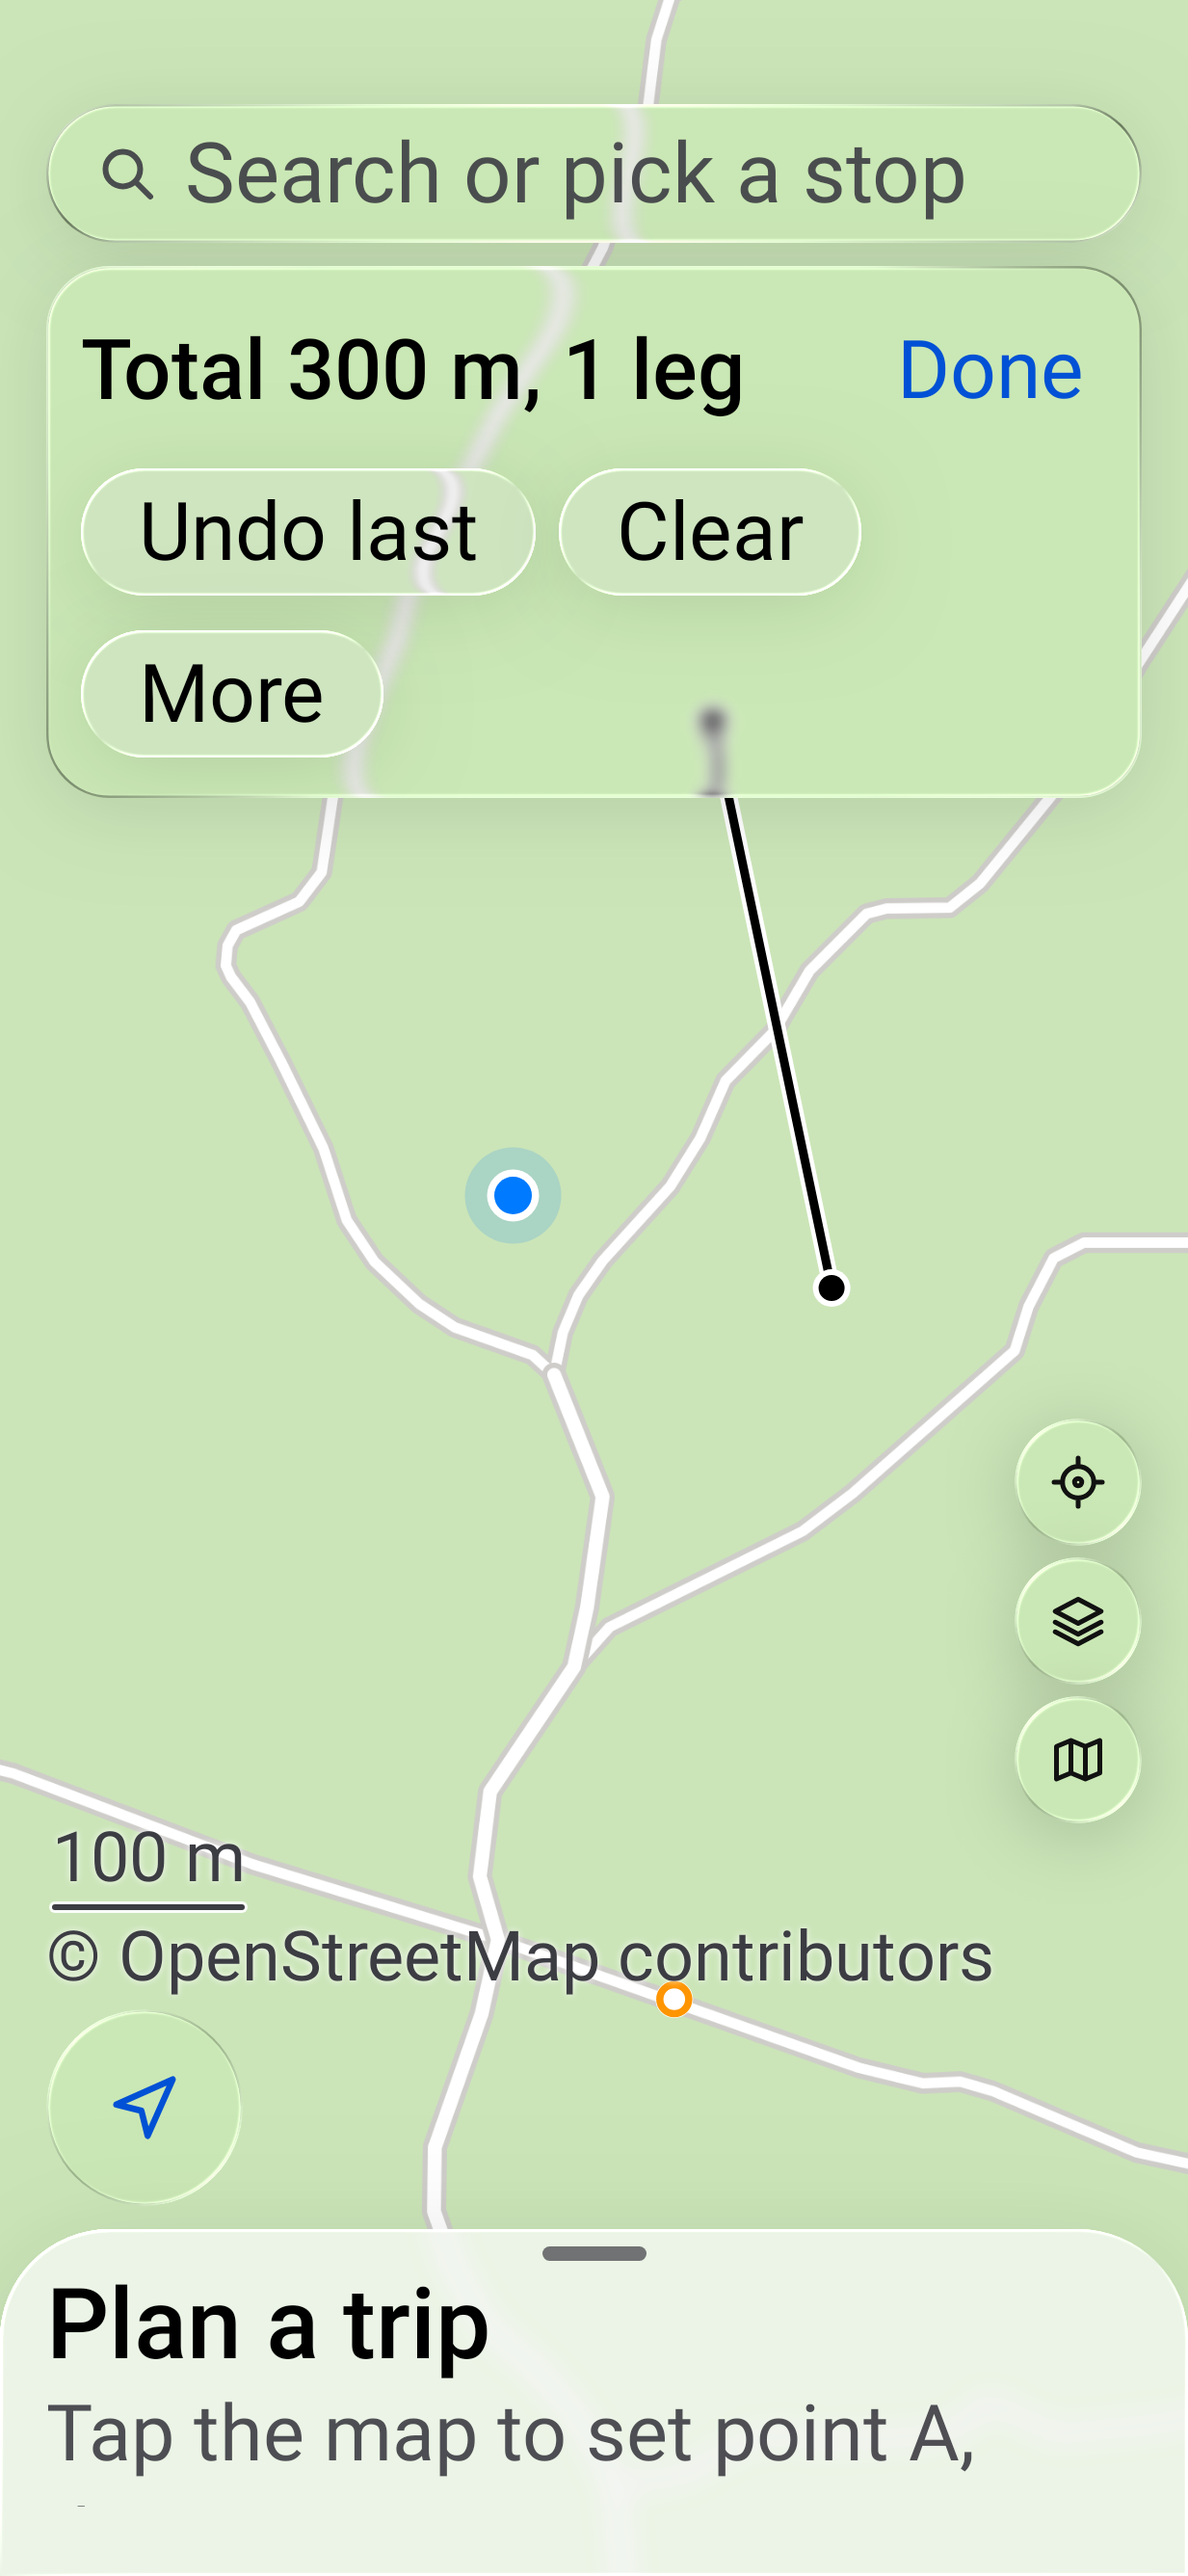
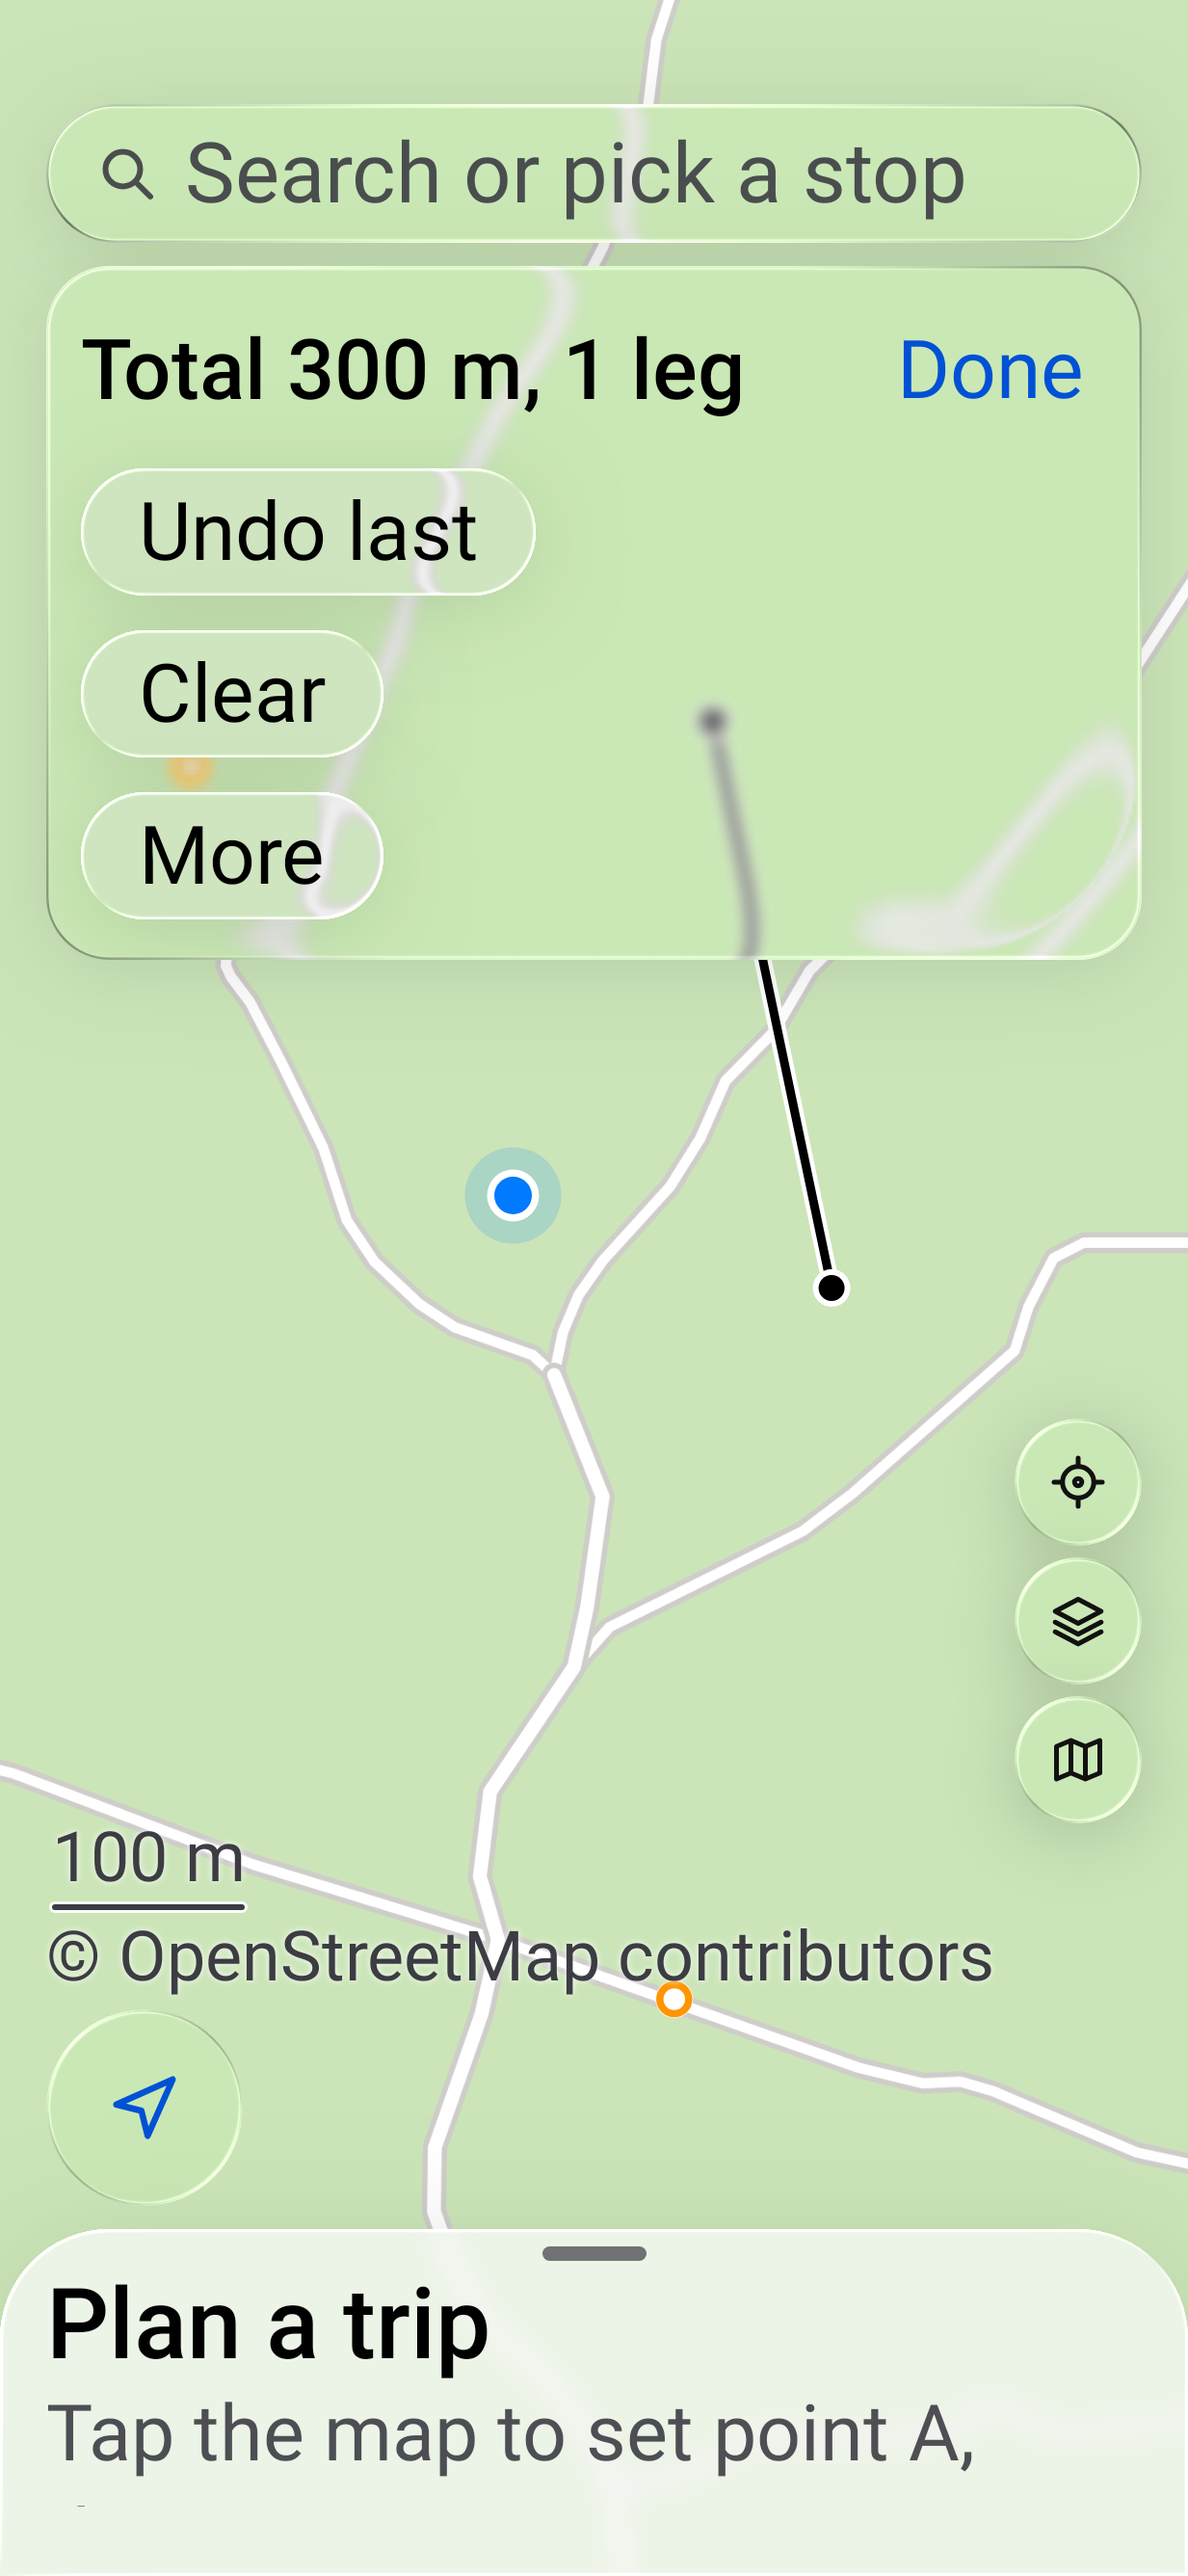
Stops: large-text stacks without FlowRow; steadier landscape shot
The design conventions forbid FlowRow (wrapping chips were an owner
complaint): from font scale 1.5 the map footer stacks the attribution
under the scale bar and the measure card's buttons go one under the
other, both by explicit layouts. The landscape golden waits longer for
its tiles in a busy run.

Claude-Session: https://claude.ai/code/session_011osUp9MCesspyDRaLRPJDZ

diff --git a/android/stops/src/main/kotlin/dev/rosty/stops/home/HomeScreen.kt b/android/stops/src/main/kotlin/dev/rosty/stops/home/HomeScreen.kt
@@ -5,7 +5,6 @@ import androidx.compose.foundation.interaction.MutableInteractionSource
 import androidx.compose.foundation.layout.Arrangement
 import androidx.compose.foundation.layout.Box
 import androidx.compose.foundation.layout.Column
-import androidx.compose.foundation.layout.FlowRow
 import androidx.compose.foundation.layout.PaddingValues
 import androidx.compose.foundation.layout.Row
 import androidx.compose.foundation.layout.RowScope
@@ -139,7 +138,8 @@ fun StopsHome(
     topCard: (@Composable () -> Unit)? = null,
     /** The locate button is tinted while the view follows the position (S17). */
     following: Boolean = false,
-    mapFooter: @Composable RowScope.() -> Unit = {},
+    /** The scale bar and the attribution; [stacked] (large text) puts them one under the other. */
+    mapFooter: @Composable (stacked: Boolean) -> Unit = {},
     motionFrozen: () -> Boolean = { false },
     sheetContent: @Composable () -> Unit = { MapSheetContent(state, actions.onOpenSaved, actions.onOpenHistory) },
 ) {
@@ -147,6 +147,8 @@ fun StopsHome(
     val entry =
         rememberMapSheet(detentFromTallest) { _ -> sheetContent() }
     val density = LocalDensity.current
+    // Large text: the attribution goes under the scale bar instead of off the edge.
+    val stackedFooter = density.fontScale >= STACKED_FOOTER_SCALE
     val bottomInsetPx = WindowInsets.safeDrawing.getBottom(density).toFloat()
     val gapPx = with(density) { Spacing.s.toPx() }
     val fadePx = with(density) { StopsSizes.rideFade.toPx() }
@@ -312,17 +314,13 @@ fun StopsHome(
                     ) {
                         // A wide window keeps the footer above the buttons, clear of the centred sheet.
                         if (wide) {
-                            // A flow row: at large text the attribution goes under the scale bar instead of off the edge.
-                            FlowRow(
+                            Box(
                                 Modifier
                                     .fillMaxWidth()
                                     .windowInsetsPadding(WindowInsets.safeDrawing.only(WindowInsetsSides.Horizontal))
                                     .padding(horizontal = Spacing.gutter, vertical = Spacing.xs)
                                     .testTag(HomeTags.MapFooter),
-                                horizontalArrangement = Arrangement.SpaceBetween,
-                                itemVerticalAlignment = Alignment.Bottom,
-                                content = mapFooter,
-                            )
+                            ) { mapFooter(stackedFooter) }
                         }
                         MapButtons(
                             actions,
@@ -333,17 +331,13 @@ fun StopsHome(
                                 .onSizeChanged { buttonsWidthPx = it.width.toFloat() + gapPx },
                         )
                         if (!wide) {
-                            // A flow row: at large text the attribution goes under the scale bar instead of off the edge.
-                            FlowRow(
+                            Box(
                                 Modifier
                                     .fillMaxWidth()
                                     .windowInsetsPadding(WindowInsets.safeDrawing.only(WindowInsetsSides.Horizontal))
                                     .padding(horizontal = Spacing.gutter, vertical = Spacing.xs)
                                     .testTag(HomeTags.MapFooter),
-                                horizontalArrangement = Arrangement.SpaceBetween,
-                                itemVerticalAlignment = Alignment.Bottom,
-                                content = mapFooter,
-                            )
+                            ) { mapFooter(stackedFooter) }
                         }
                         RostyTabBar(
                             tabs = tabs,
@@ -516,3 +510,6 @@ private fun MapButtons(
         )
     }
 }
+
+/** From this font scale the map footer stacks. */
+private const val STACKED_FOOTER_SCALE = 1.5f

diff --git a/android/stops/src/main/kotlin/dev/rosty/stops/home/HomeEntry.kt b/android/stops/src/main/kotlin/dev/rosty/stops/home/HomeEntry.kt
@@ -5,6 +5,10 @@ import android.content.ContextWrapper
 import android.content.Intent
 import android.content.res.Resources
 import androidx.activity.ComponentActivity
+import androidx.compose.foundation.layout.Arrangement
+import androidx.compose.foundation.layout.Column
+import androidx.compose.foundation.layout.Row
+import androidx.compose.foundation.layout.fillMaxWidth
 import androidx.compose.runtime.Composable
 import androidx.compose.runtime.LaunchedEffect
 import androidx.compose.runtime.collectAsState
@@ -14,6 +18,7 @@ import androidx.compose.runtime.remember
 import androidx.compose.runtime.rememberCoroutineScope
 import androidx.compose.runtime.setValue
 import androidx.compose.runtime.snapshotFlow
+import androidx.compose.ui.Alignment
 import androidx.compose.ui.Modifier
 import androidx.compose.ui.platform.LocalContext
 import androidx.compose.ui.platform.LocalDensity
@@ -622,9 +627,22 @@ fun HomeEntry(
         hint = if (runningTrip != null) null else pickState.pairLabel ?: pickState.hintText,
         topCard = if (measuring.on) ({ MeasureCard(mapTools) }) else null,
         following = mapTools.follow == MapFollowMode.Following,
-        mapFooter = {
-            MapScaleBar(map.camera, Modifier.testTag(HomeTags.ScaleBar))
-            MapAttribution()
+        mapFooter = { stacked ->
+            if (stacked) {
+                Column {
+                    MapScaleBar(map.camera, Modifier.testTag(HomeTags.ScaleBar))
+                    MapAttribution()
+                }
+            } else {
+                Row(
+                    Modifier.fillMaxWidth(),
+                    horizontalArrangement = Arrangement.SpaceBetween,
+                    verticalAlignment = Alignment.Bottom,
+                ) {
+                    MapScaleBar(map.camera, Modifier.testTag(HomeTags.ScaleBar))
+                    MapAttribution()
+                }
+            }
         },
         motionFrozen = { map.motion.frozen },
         // S37: one tap starts the trip to the saved stop nearest the position, while nothing is picked.

diff --git a/android/stops/src/main/kotlin/dev/rosty/stops/tools/ToolViews.kt b/android/stops/src/main/kotlin/dev/rosty/stops/tools/ToolViews.kt
@@ -3,7 +3,6 @@ package dev.rosty.stops.tools
 import androidx.compose.animation.core.Animatable
 import androidx.compose.foundation.layout.Arrangement
 import androidx.compose.foundation.layout.Column
-import androidx.compose.foundation.layout.FlowRow
 import androidx.compose.foundation.layout.Row
 import androidx.compose.foundation.layout.fillMaxWidth
 import androidx.compose.foundation.layout.padding
@@ -121,7 +120,7 @@ fun MeasureCard(
                 Modifier.testTag(ToolTags.MeasureDone),
             )
         }
-        // Equal thirds; with large text each keeps its own width and the row wraps instead of cutting labels.
+        // Equal thirds; with large text each keeps its own width, one under the other, instead of cutting labels.
         val large = LocalDensity.current.fontScale >= LARGE_FONT_SCALE
         val more = {
             result?.let {
@@ -156,10 +155,7 @@ fun MeasureCard(
             )
         }
         if (large) {
-            FlowRow(
-                horizontalArrangement = Arrangement.spacedBy(Spacing.s),
-                verticalArrangement = Arrangement.spacedBy(Spacing.s),
-            ) { buttons(Modifier) }
+            Column(verticalArrangement = Arrangement.spacedBy(Spacing.s)) { buttons(Modifier) }
         } else {
             Row(horizontalArrangement = Arrangement.spacedBy(Spacing.s)) { buttons(Modifier.weight(1f)) }
         }
@@ -250,7 +246,7 @@ fun OverlayController.presentMyLocationSheet(
         }
     }.also { present(it) }
 
-/** From this font scale the measure card's buttons keep their own widths and wrap. */
+/** From this font scale the measure card's buttons keep their own widths, one under the other. */
 private const val LARGE_FONT_SCALE = 1.5f
 
 /** The card grows from this scale as it appears. */

diff --git a/android/stops/src/test/kotlin/dev/rosty/stops/E71ShotTest.kt b/android/stops/src/test/kotlin/dev/rosty/stops/E71ShotTest.kt
@@ -95,8 +95,9 @@ class E71ShotTest : ShotTest() {
                     waitForIdle()
                     simulateBars(activity!!)
                 }
-                // The core answers on its own threads, through the main looper.
-                repeat(30) {
+                // The core answers on its own threads, through the main looper (and the tiles load on theirs: a busy
+                // full run needed longer than three seconds).
+                repeat(60) {
                     mainClock.advanceTimeBy(100)
                     Thread.sleep(15)
                 }

diff --git a/_bmad-output/kotlin-ui/plans/e7-r2-approach-app.md b/_bmad-output/kotlin-ui/plans/e7-r2-approach-app.md
@@ -74,8 +74,8 @@ where text matters); tests `PickSheetViewModelTest`, `PickAppTest`, `MeasureTool
 **Layout sweep at font scale 2 and in Turkish.** Every `fs2` and `-tr` Stops golden was opened. Fixes made:
 
 - At fs2 the pick field showed only "Search, or". From font scale 1.5 the field takes the whole width and Paste goes under it.
-- The map footer clipped "© OpenStreetMap contributors" at the edge. It is now a flow row: the attribution goes under the scale bar.
-- The measure card cut "Undo last". With large text the three buttons keep their own widths and wrap.
+- The map footer clipped "© OpenStreetMap contributors" at the edge. From font scale 1.5 the footer stacks: the attribution goes under the scale bar.
+- The measure card cut "Undo last". With large text the three buttons keep their own widths, one under the other.
 - History trip rows truncated the pair and its details. The title now takes up to 2 lines and the details up to 3.
 
 New fs2 goldens: `e7.9-measure-two-legs-fs2`, `e7.9-my-location-sheet-fs2`, `e7.11-history-fs2` and
